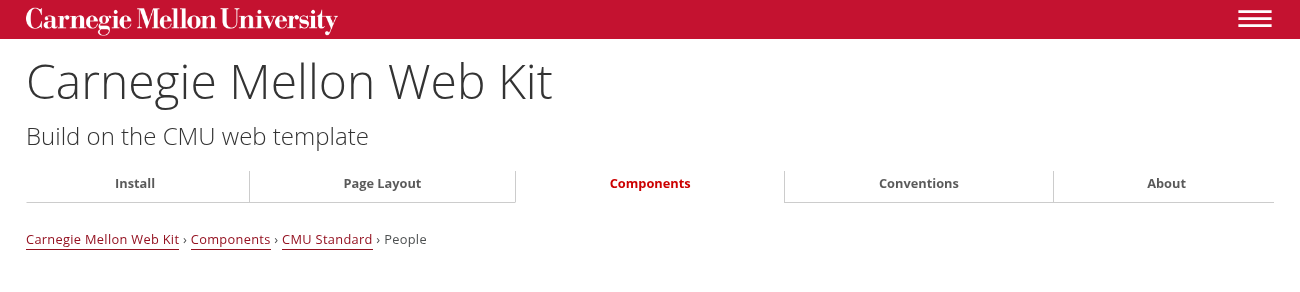
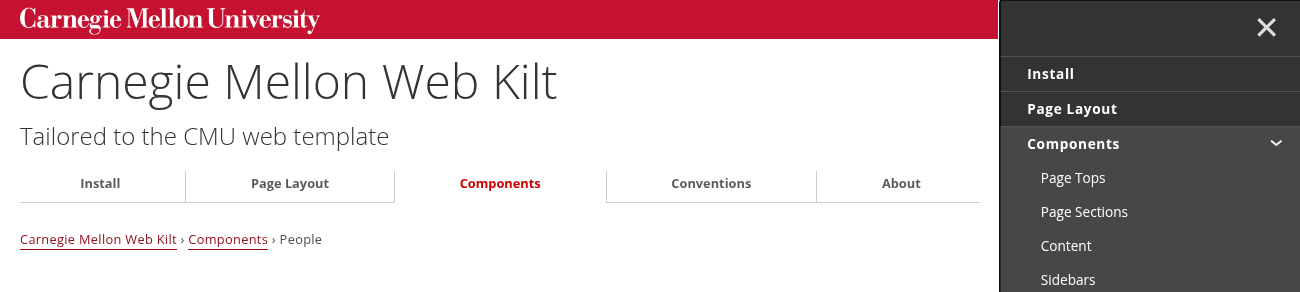
docs: retake the screenshots of this site under its new name

diff --git a/docs/layout.html b/docs/layout.html
@@ -587,7 +587,7 @@
             <figure class="cmu-shot cmu-shot--browser">
               <img
                 src="images/layout-breadcrumbs.png"
-                alt="The breadcrumbs under the header tabs: Carnegie Mellon Web Kilt, Components, CMU Standard, then People as plain text."
+                alt="The breadcrumbs under the header tabs: Carnegie Mellon Web Kilt, Components, then People as plain text."
                 width="1300"
                 height="292"
               />
